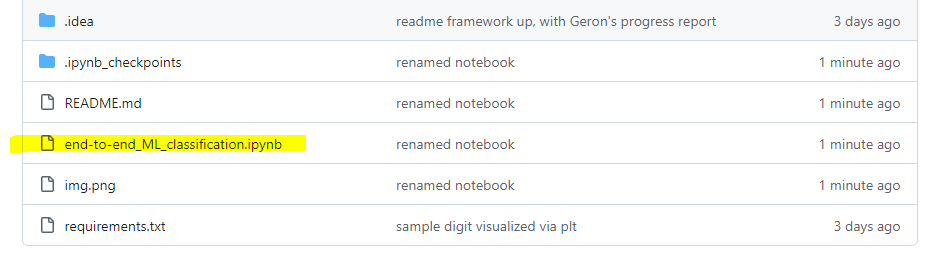
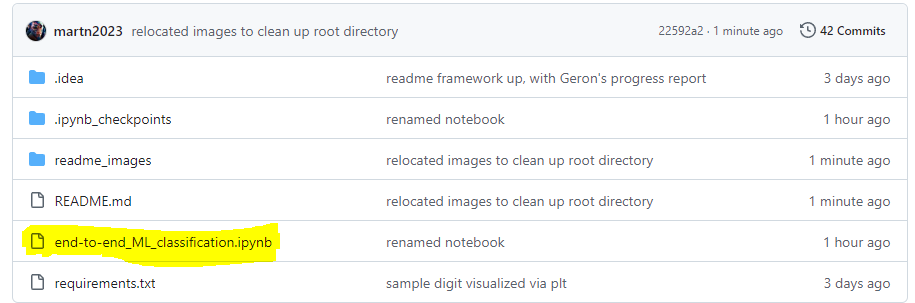
notebook location image fixed

diff --git a/README.md b/README.md
@@ -17,8 +17,9 @@
 <br>
 <br>
 # II. How to use this:
-Screenshots below are illustrative, not comprehensive. __For a deeper dive into the analysis, see highlighted Jupyter notebook__
-![img_1.png](readme_images/jupyter_notebook_location.png)
+Screenshots below are illustrative, not comprehensive. __For a deeper dive into the analysis, see highlighted Jupyter notebook__.
+
+![img.png](img.png)
 
 # III. Project Overview:
 #### Stage 1: "Is it a 5 or not?"
